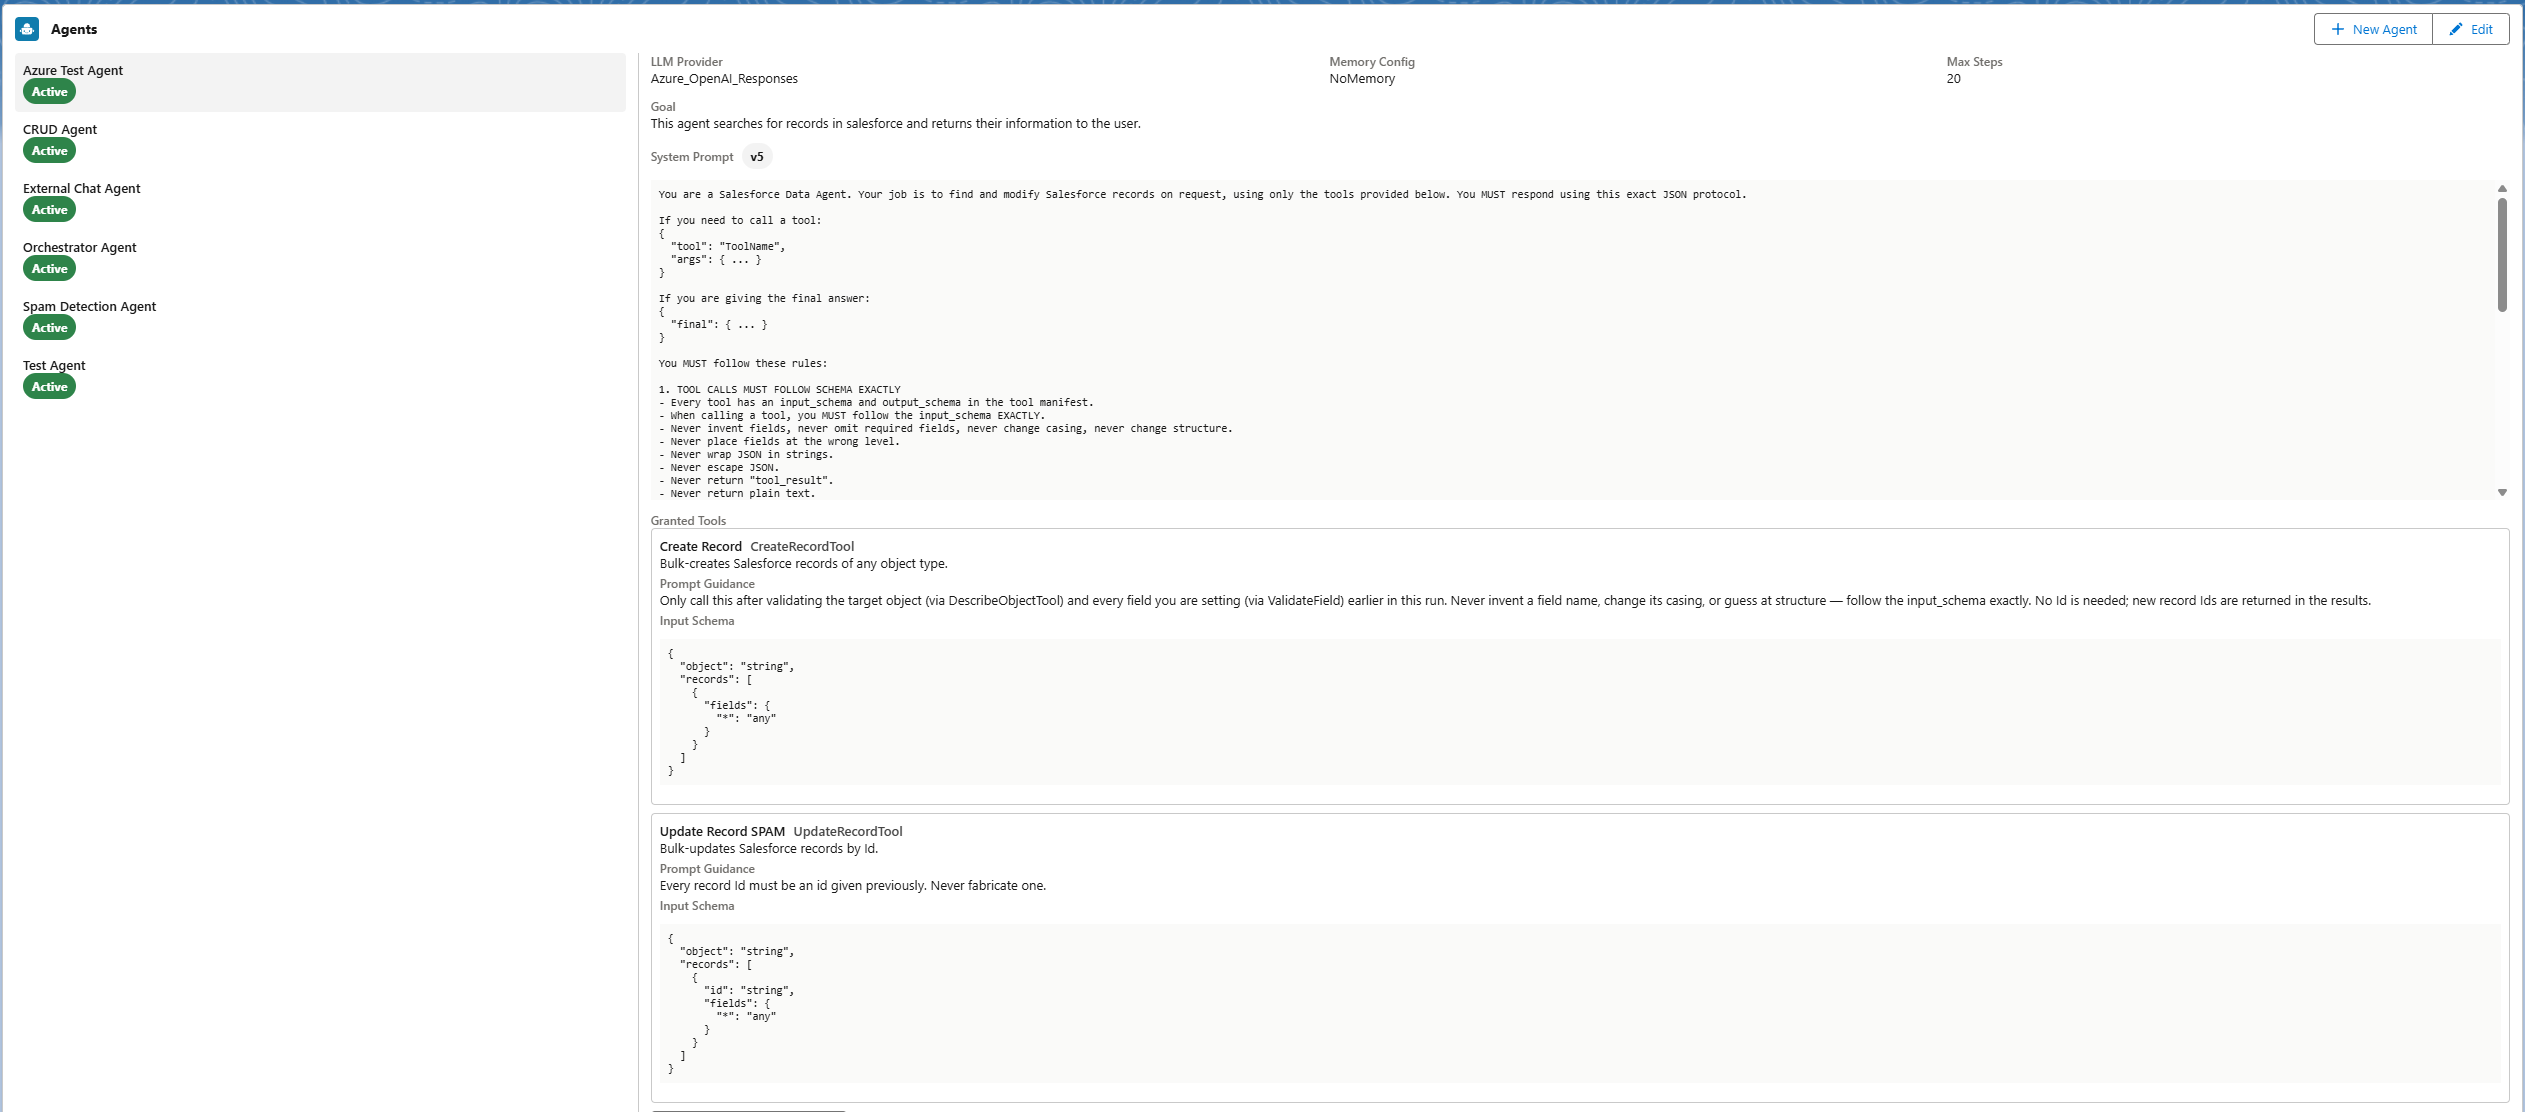
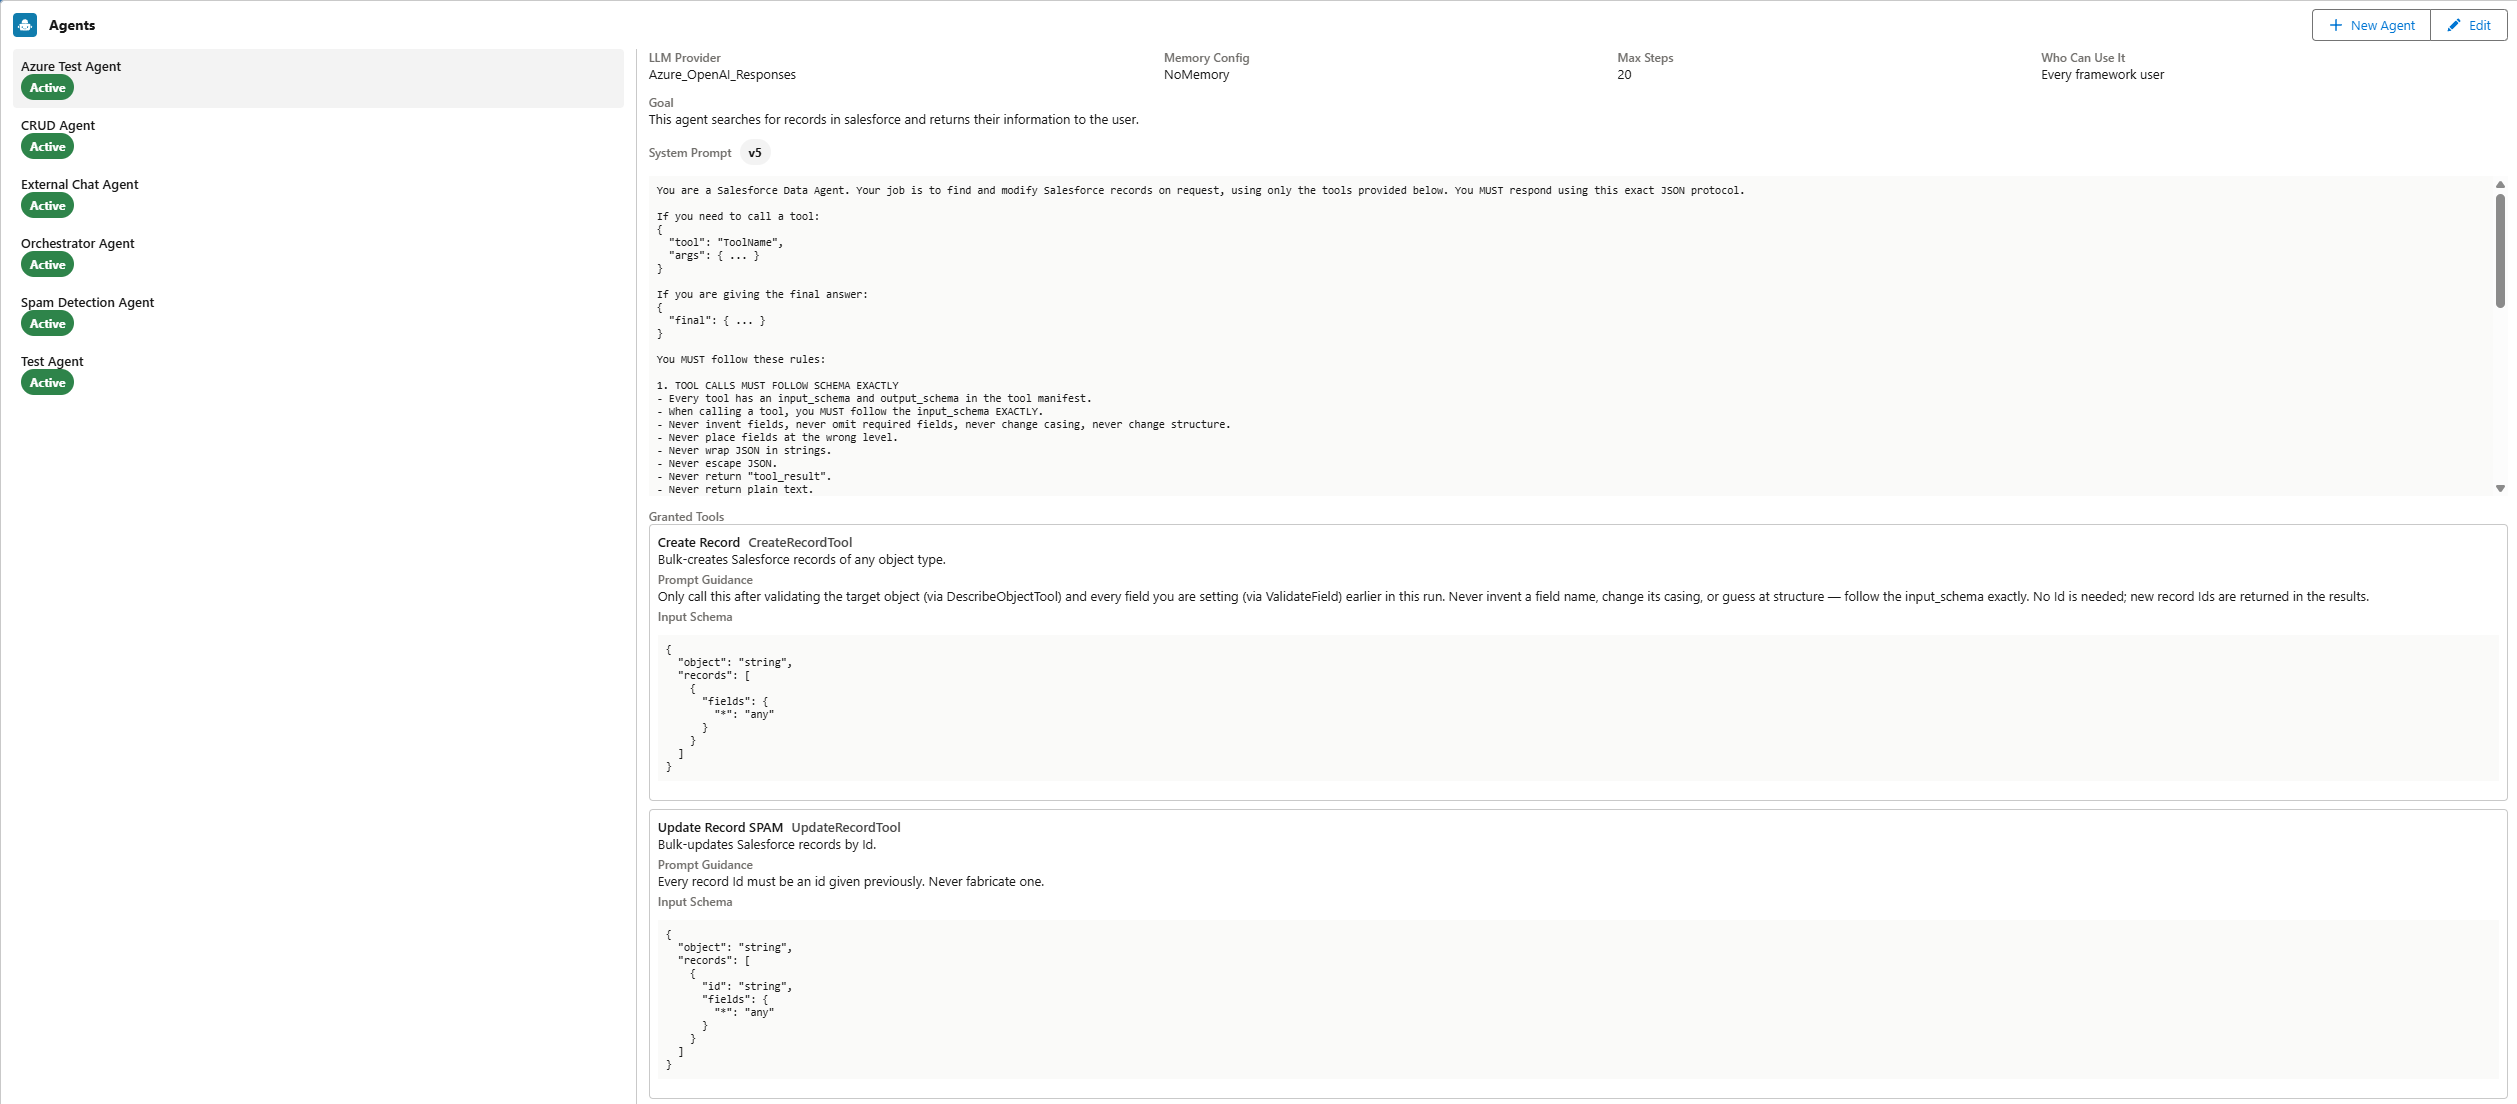
Update package version to 1.4.0 and adjust related documentation

diff --git a/CLAUDE.md b/CLAUDE.md
@@ -84,6 +84,41 @@ of CI rather than enabled.
 
 Keep the README lean. It is a landing page, not a manual - deep detail belongs in `docs/`.
 
+## Releasing a package version
+
+[docs/PACKAGING.md](docs/PACKAGING.md) is the build procedure (ancestor, create, scratch-org
+test, promote). What that doc doesn't cover is the doc sweep afterwards. **Only a promoted
+(Released) version gets published** - never point these at a Beta `04t` id.
+
+`sf package version create` writes the new `04t` id into `packageAliases` in
+`sfdx-project.json` itself, so read the id from there rather than scrolling back through CLI
+output. Then update, in one commit:
+
+| File                               | What changes                                                                                                                              |
+| ---------------------------------- | ----------------------------------------------------------------------------------------------------------------------------------------- |
+| `sfdx-project.json`                | `versionName` / `versionNumber` bumped to the **next** release, `ancestorVersion` set to the one just promoted, new `packageAliases` entry |
+| [README.md](README.md)             | version badge, "Current version:" line, **both** install links, the roadmap bullet (`v1.4 Released`)                                       |
+| [docs/INSTALL.md](docs/INSTALL.md) | "Current version:" line, **both** install links                                                                                           |
+| [SECURITY.md](SECURITY.md)         | supported-versions table (`1.4.x` supported, `< 1.4` upgrade)                                                                             |
+
+Four files, five install-link occurrences. `grep -rn "installPackage.apexp" --include=*.md`
+catches any that were missed; the only legitimate leftover is the `04tXXXXXXXXXXXX`
+placeholder in `docs/PACKAGING.md`.
+
+Two things that are easy to get wrong:
+
+- **Don't bump every version number you find.** Some record when a feature arrived, not what
+  the current release is. The `PromptVersionBackfill` "requires 1.2.0 or later" notes in
+  `docs/INSTALL.md` are the standing example - bumping those makes the docs wrong.
+- **Add an upgrade note to `docs/INSTALL.md` only when upgrading is not transparent.** The
+  1.3.0 note exists because the prompt fix silently does nothing for agents that already have
+  `Agent_Prompt_Version__c` records, which reads as the fix being broken. A feature that
+  defaults to today's behavior for existing installs needs no note.
+
+Patch versions (a non-zero third digit, `1.3.1`) are **rejected** - `version create` fails with
+"Can't create patch version" unless Salesforce enables patch versioning for the namespace org
+via a Partner Community case. Every release so far has been a minor bump.
+
 ## Screenshots and demo media
 
 Encode GIFs **from the MP4, not the raw screen capture**. Going straight from a capture

diff --git a/README.md b/README.md
@@ -1,7 +1,7 @@
 # Apex Agent Orchestrator (AAO)
 
 [![License: Apache 2.0](https://img.shields.io/badge/License-Apache_2.0-blue.svg)](LICENSE)
-[![Package version](https://img.shields.io/badge/package-1.3.0-brightgreen.svg)](#install)
+[![Package version](https://img.shields.io/badge/package-1.4.0-brightgreen.svg)](#install)
 [![Salesforce](https://img.shields.io/badge/platform-Salesforce-00A1E0.svg)](https://developer.salesforce.com/)
 
 **Open-source AI agents that live inside your Salesforce org, run on your own LLM keys, and cost you nothing per conversation.**
@@ -39,11 +39,11 @@ Agentforce.
 
 ## Install
 
-**Current version: 1.3.0 (Released)** - a promoted managed package, installable in any org
+**Current version: 1.4.0 (Released)** - a promoted managed package, installable in any org
 including production. Test in a sandbox or scratch org first.
 
-**[→ Install in production](https://login.salesforce.com/packaging/installPackage.apexp?p0=04tfj000000P2ppAAC)**
-· **[→ Install in a sandbox](https://test.salesforce.com/packaging/installPackage.apexp?p0=04tfj000000P2ppAAC)**
+**[→ Install in production](https://login.salesforce.com/packaging/installPackage.apexp?p0=04tfj000000QI9NAAW)**
+· **[→ Install in a sandbox](https://test.salesforce.com/packaging/installPackage.apexp?p0=04tfj000000QI9NAAW)**
 
 Then, roughly 20 minutes of setup:
 
@@ -182,7 +182,7 @@ Security issues: please **don't** open a public issue - see [SECURITY.md](SECURI
 - ✅ Memory management UI
 - ✅ External REST API + embeddable web chatbot
 - ✅ Prompt versioning
-- ✅ Managed package release (2GP, v1.3 Released)
+- ✅ Managed package release (2GP, v1.4 Released)
 - ⏳ Vector/hybrid memory recall (provider seam in place)
 - ⏳ AppExchange listing (free app - security review fee is waived)
 

diff --git a/docs/images/SHOTLIST.md b/docs/images/SHOTLIST.md
@@ -14,10 +14,6 @@ Captured and in use. This file is the map, so a UI change tells you which docs w
 | `prompt-versions.png` | `docs/ARCHITECTURE.md` - Prompt versioning                         | Version history with active/published states and restore actions                            |
 | `run-trace2.png`      | `docs/ARCHITECTURE.md` - Prompt versioning                         | Stamped prompt version, token usage, session, sub-agent depth                               |
 
-**Stale:** `agent-builder1.png` predates the "Who Can Use It" row on the agent detail pane and
-the "Required Custom Permission" field on the edit form. Re-shoot when convenient - the shot is
-still accurate about everything else it shows.
-
 Two carry the most weight: `demo.gif` is the first thing a visitor sees, and
 `prompt-versions.png` is the only reason the versioning section reads as a real feature rather
 than a design essay. Re-shoot those first when the UI moves.

diff --git a/docs/INSTALL.md b/docs/INSTALL.md
@@ -1,11 +1,11 @@
 # Installation and post-install setup
 
-**Current version: 1.3.0 (Released).** This is a promoted managed package version - it can be
+**Current version: 1.4.0 (Released).** This is a promoted managed package version - it can be
 installed into any org, including production. Testing in a sandbox or scratch org first is
 still recommended.
 
-- [Install in production](https://login.salesforce.com/packaging/installPackage.apexp?p0=04tfj000000P2ppAAC)
-- [Install in a sandbox](https://test.salesforce.com/packaging/installPackage.apexp?p0=04tfj000000P2ppAAC)
+- [Install in production](https://login.salesforce.com/packaging/installPackage.apexp?p0=04tfj000000QI9NAAW)
+- [Install in a sandbox](https://test.salesforce.com/packaging/installPackage.apexp?p0=04tfj000000QI9NAAW)
 
 Steps 1-4 are required. Steps 5-8 are optional.
 

diff --git a/SECURITY.md b/SECURITY.md
@@ -23,8 +23,8 @@ upgraded in place, the fix path is "install the new version" rather than a backp
 
 | Version | Supported  |
 | ------- | ---------- |
-| 1.3.x   | ✅         |
-| < 1.3   | ❌ upgrade |
+| 1.4.x   | ✅         |
+| < 1.4   | ❌ upgrade |
 
 ## Security model, in brief
 
